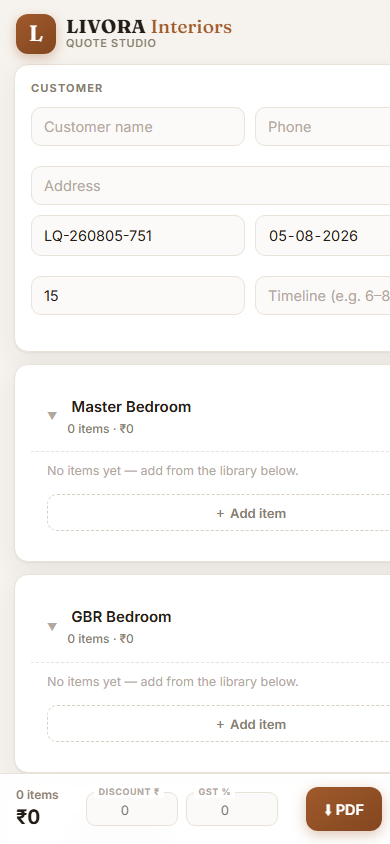
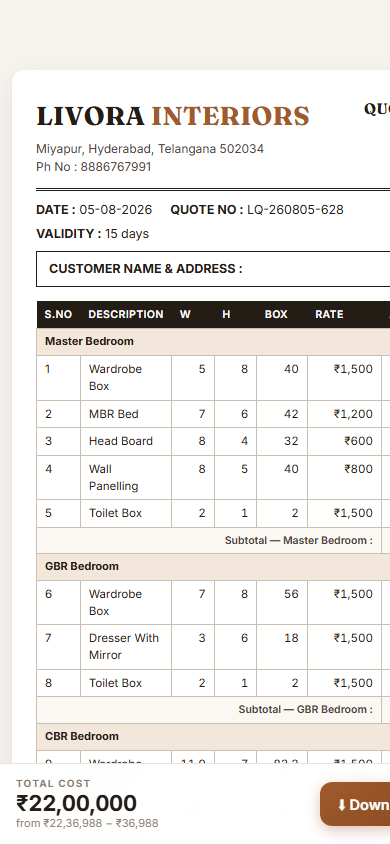
Add ?preview=1 screen view mode

Changed region(s): [[0.0308, 0.0, 1.0, 1.0], [0.9231, 0.1232, 1.0, 0.154]]

diff --git a/app.js b/app.js
@@ -707,8 +707,9 @@ function init() {
   window.addEventListener('beforeprint', () => { renderQuote(); });
   window.addEventListener('afterprint', () => { /* nothing */ });
 
-  // ?print=1 → jump straight to the final template (bookmarkable / PDF-ready)
-  if (new URLSearchParams(location.search).get('print')) {
+  // ?print=1 / ?preview=1 → jump straight to the final template (bookmarkable / PDF-ready)
+  const qp = new URLSearchParams(location.search);
+  if (qp.get('print') || qp.get('preview')) {
     const hasItems = state.sections.some(s => s.items.length);
     if (!hasItems) loadSample();
     showQuote();
